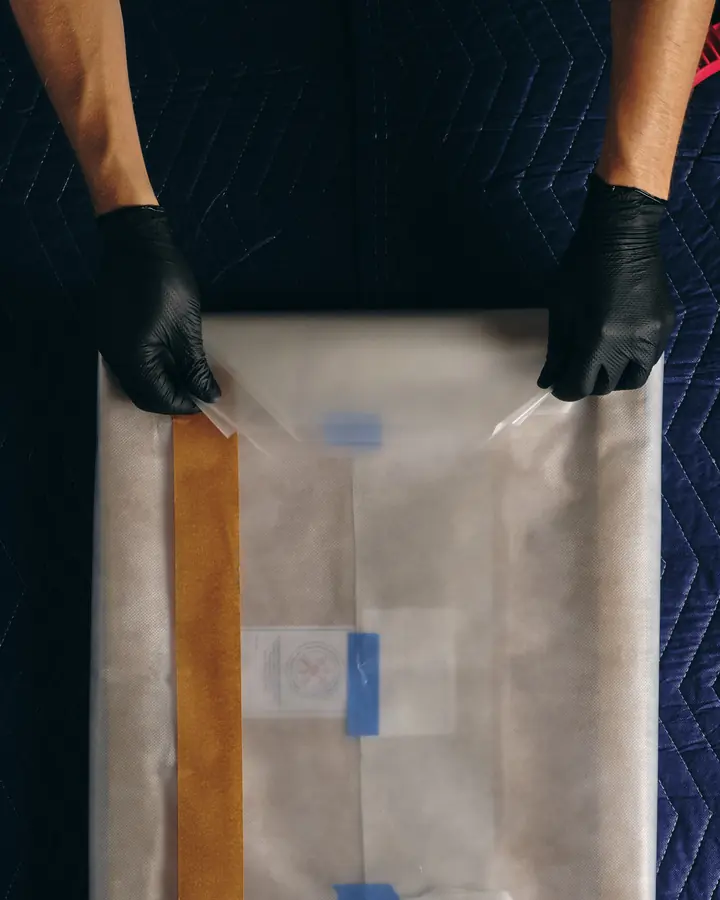
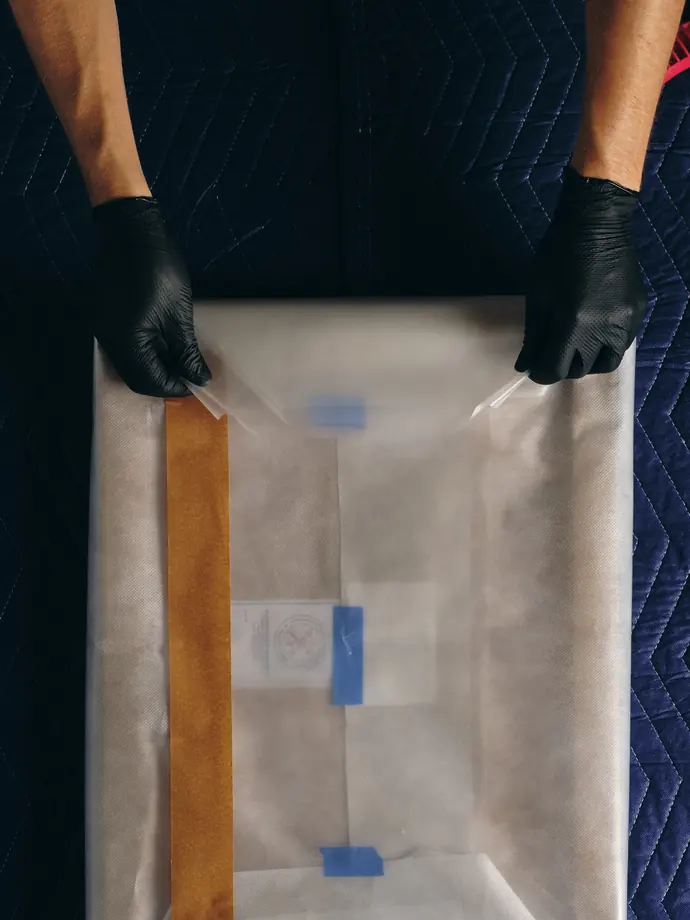
Eight journey cards at 3:4, no standfirst
- Photography joins the sequence as 02, straight after the work is received,
  which is where a work is documented before anything is packed.
- The frames move from 4:5 to 3:4 and the standfirst card is gone, so the row
  is eight cards: 01 to 04 along the top, 05 to 08 back along the bottom.
- The top line now runs the whole row, there being no text cell to avoid.

diff --git a/index.html b/index.html
@@ -128,81 +128,86 @@
   <section class="journey" id="journey" data-ground="mid" aria-label="One work, end to end">
     <div class="journey__track">
       <div class="journey__grid" data-journey-strip>
-
-        <div class="journey__intro">
-          <p>Most of what we do is never seen.</p>
-        </div>
-
         <ol class="journey__stages">
-        <li class="journey__stage">
-          <figure>
-            <div class="journey__plate">
-            <img src="assets/img/journey/received.webp" width="720" height="900"
-                 loading="lazy" decoding="async" alt="A framed work laid face-down on a padded table with its paperwork beside it.">
-            <span class="journey__n" aria-hidden="true">01</span>
-            <figcaption>Received</figcaption>
-            </div>
-          </figure>
+          <li class="journey__stage">
+            <figure>
+              <div class="journey__plate">
+                <img src="assets/img/journey/received.webp" width="690" height="920"
+                     loading="lazy" decoding="async" alt="A framed work laid face-down on a padded table with its paperwork beside it.">
+                <span class="journey__n" aria-hidden="true">01</span>
+                <figcaption>Received</figcaption>
+              </div>
+            </figure>
           </li>
-        <li class="journey__stage">
-          <figure>
-            <div class="journey__plate">
-            <img src="assets/img/journey/wrapped.webp" width="720" height="900"
-                 loading="lazy" decoding="async" alt="Gloved hands taping a wrapped work closed.">
-            <span class="journey__n" aria-hidden="true">02</span>
-            <figcaption>Wrapped</figcaption>
-            </div>
-          </figure>
+          <li class="journey__stage">
+            <figure>
+              <div class="journey__plate">
+                <img src="assets/img/journey/photographed.webp" width="690" height="920"
+                     loading="lazy" decoding="async" alt="A technician photographing a framed work on a tripod-mounted camera.">
+                <span class="journey__n" aria-hidden="true">02</span>
+                <figcaption>Photographed</figcaption>
+              </div>
+            </figure>
           </li>
-        <li class="journey__stage">
-          <figure>
-            <div class="journey__plate">
-            <img src="assets/img/journey/boarded.webp" width="720" height="900"
-                 loading="lazy" decoding="async" alt="The wrapped work set into a foam-cornered board.">
-            <span class="journey__n" aria-hidden="true">03</span>
-            <figcaption>Boarded</figcaption>
-            </div>
-          </figure>
+          <li class="journey__stage">
+            <figure>
+              <div class="journey__plate">
+                <img src="assets/img/journey/wrapped.webp" width="690" height="920"
+                     loading="lazy" decoding="async" alt="Gloved hands taping a wrapped work closed.">
+                <span class="journey__n" aria-hidden="true">03</span>
+                <figcaption>Wrapped</figcaption>
+              </div>
+            </figure>
           </li>
-        <li class="journey__stage">
-          <figure>
-            <div class="journey__plate">
-            <img src="assets/img/journey/crated.webp" width="720" height="900"
-                 loading="lazy" decoding="async" alt="A finished timber crate, marked and labelled.">
-            <span class="journey__n" aria-hidden="true">04</span>
-            <figcaption>Crated</figcaption>
-            </div>
-          </figure>
+          <li class="journey__stage">
+            <figure>
+              <div class="journey__plate">
+                <img src="assets/img/journey/boarded.webp" width="690" height="920"
+                     loading="lazy" decoding="async" alt="The wrapped work set into a foam-cornered board.">
+                <span class="journey__n" aria-hidden="true">04</span>
+                <figcaption>Boarded</figcaption>
+              </div>
+            </figure>
           </li>
-        <li class="journey__stage">
-          <figure>
-            <div class="journey__plate">
-            <img src="assets/img/journey/stored.webp" width="720" height="900"
-                 loading="lazy" decoding="async" alt="Crates and works held on racking inside the facility.">
-            <span class="journey__n" aria-hidden="true">05</span>
-            <figcaption>Stored</figcaption>
-            </div>
-          </figure>
+          <li class="journey__stage">
+            <figure>
+              <div class="journey__plate">
+                <img src="assets/img/journey/crated.webp" width="690" height="920"
+                     loading="lazy" decoding="async" alt="A finished timber crate, marked and labelled.">
+                <span class="journey__n" aria-hidden="true">05</span>
+                <figcaption>Crated</figcaption>
+              </div>
+            </figure>
           </li>
-        <li class="journey__stage">
-          <figure>
-            <div class="journey__plate">
-            <img src="assets/img/journey/transit.webp" width="720" height="900"
-                 loading="lazy" decoding="async" alt="The padded interior of a fitted Storehouse vehicle.">
-            <span class="journey__n" aria-hidden="true">06</span>
-            <figcaption>In transit</figcaption>
-            </div>
-          </figure>
+          <li class="journey__stage">
+            <figure>
+              <div class="journey__plate">
+                <img src="assets/img/journey/stored.webp" width="690" height="920"
+                     loading="lazy" decoding="async" alt="Crates and works held on racking inside the facility.">
+                <span class="journey__n" aria-hidden="true">06</span>
+                <figcaption>Stored</figcaption>
+              </div>
+            </figure>
           </li>
-        <li class="journey__stage">
-          <figure>
-            <div class="journey__plate">
-            <img src="assets/img/journey/installed.webp" width="720" height="900"
-                 loading="lazy" decoding="async" alt="A large framed painting hung on the wall of a private interior.">
-            <span class="journey__n" aria-hidden="true">07</span>
-            <figcaption>Installed</figcaption>
-            </div>
-          </figure>
+          <li class="journey__stage">
+            <figure>
+              <div class="journey__plate">
+                <img src="assets/img/journey/transit.webp" width="690" height="920"
+                     loading="lazy" decoding="async" alt="The padded interior of a fitted Storehouse vehicle.">
+                <span class="journey__n" aria-hidden="true">07</span>
+                <figcaption>In transit</figcaption>
+              </div>
+            </figure>
+          </li>
+          <li class="journey__stage">
+            <figure>
+              <div class="journey__plate">
+                <img src="assets/img/journey/installed.webp" width="690" height="920"
+                     loading="lazy" decoding="async" alt="A large framed painting hung on the wall of a private interior.">
+                <span class="journey__n" aria-hidden="true">08</span>
+                <figcaption>Installed</figcaption>
+              </div>
+            </figure>
           </li>
         </ol>
 

diff --git a/assets/css/site.css b/assets/css/site.css
@@ -491,16 +491,6 @@ html[data-cursor="on"] .hero-field { cursor: none; }
   padding-block: clamp(2rem, 3.5vw, 3.25rem);
 }
 
-/* The standfirst takes the first cell of the grid, where an eighth card would
-   otherwise sit, so there is no band of empty ground above the row. */
-.journey__intro { display: flex; align-items: center; }
-.journey__intro p {
-  margin: 0;
-  color: color-mix(in srgb, var(--canvas) 82%, transparent);
-  font-size: var(--t-body);
-  max-width: 22em;
-}
-
 /* The row runs the full width of the window, not the text measure. */
 .journey__track {
   --turn-w: clamp(0.9rem, 1.5vw, 1.5rem);
@@ -522,21 +512,21 @@ html[data-cursor="on"] .hero-field { cursor: none; }
 .journey__stages { display: contents; }
 .journey__stage { position: relative; }
 
-.journey__intro           { grid-area: 1 / 1; }
-.journey__stage:nth-child(1) { grid-area: 1 / 2; }
-.journey__stage:nth-child(2) { grid-area: 1 / 3; }
-.journey__stage:nth-child(3) { grid-area: 1 / 4; }
-.journey__stage:nth-child(4) { grid-area: 2 / 4; }
-.journey__stage:nth-child(5) { grid-area: 2 / 3; }
-.journey__stage:nth-child(6) { grid-area: 2 / 2; }
-.journey__stage:nth-child(7) { grid-area: 2 / 1; }
+.journey__stage:nth-child(1) { grid-area: 1 / 1; }
+.journey__stage:nth-child(2) { grid-area: 1 / 2; }
+.journey__stage:nth-child(3) { grid-area: 1 / 3; }
+.journey__stage:nth-child(4) { grid-area: 1 / 4; }
+.journey__stage:nth-child(5) { grid-area: 2 / 4; }
+.journey__stage:nth-child(6) { grid-area: 2 / 3; }
+.journey__stage:nth-child(7) { grid-area: 2 / 2; }
+.journey__stage:nth-child(8) { grid-area: 2 / 1; }
 
 /* One line, along the top row, down the right-hand side, back along the bottom. */
 .journey__line {
   background: color-mix(in srgb, var(--canvas) 72%, transparent);
   pointer-events: none;
 }
-.journey__line--top    { grid-area: 1 / 2 / 2 / 5; align-self: center; height: 1px; }
+.journey__line--top    { grid-area: 1 / 1 / 2 / 5; align-self: center; height: 1px; }
 .journey__line--bottom { grid-area: 2 / 1 / 3 / 5; align-self: center; height: 1px; }
 .journey__line--turn {
   grid-area: 1 / 4 / 3 / 5;
@@ -555,7 +545,7 @@ html[data-cursor="on"] .hero-field { cursor: none; }
 
 .journey__plate {
   position: relative;
-  aspect-ratio: 4 / 5;
+  aspect-ratio: 3 / 4;
   background: rgba(0, 0, 0, 0.25);
   overflow: hidden;
 }
@@ -613,12 +603,13 @@ html[data-cursor="on"] .hero-field { cursor: none; }
     animation: settle 0.7s cubic-bezier(0.22, 1, 0.36, 1) backwards;
   }
   .js .journey__strip:not([data-shown="true"]) .journey__stage { opacity: 0; }
-  .journey__stage:nth-child(2) { animation-delay: 0.00s; }
-  .journey__stage:nth-child(3) { animation-delay: 0.07s; }
-  .journey__stage:nth-child(4) { animation-delay: 0.14s; }
-  .journey__stage:nth-child(5) { animation-delay: 0.21s; }
-  .journey__stage:nth-child(6) { animation-delay: 0.28s; }
-  .journey__stage:nth-child(7) { animation-delay: 0.35s; }
+  .journey__stage:nth-child(1) { animation-delay: 0.00s; }
+  .journey__stage:nth-child(2) { animation-delay: 0.06s; }
+  .journey__stage:nth-child(3) { animation-delay: 0.12s; }
+  .journey__stage:nth-child(4) { animation-delay: 0.18s; }
+  .journey__stage:nth-child(5) { animation-delay: 0.24s; }
+  .journey__stage:nth-child(6) { animation-delay: 0.30s; }
+  .journey__stage:nth-child(7) { animation-delay: 0.36s; }
   .journey__stage:nth-child(8) { animation-delay: 0.42s; }
   @keyframes settle {
     from { opacity: 0; transform: translateY(0.7rem); }
@@ -630,7 +621,6 @@ html[data-cursor="on"] .hero-field { cursor: none; }
 
 @media (max-width: 56rem) {
   .journey__track { padding-inline: 0; }
-  .journey__intro { display: block; padding-inline: var(--gutter); margin-bottom: 1.5rem; }
   .journey__line { display: none; }
   .journey__grid { display: block; }
   .journey__stages {

diff --git a/README.md b/README.md
@@ -129,20 +129,19 @@ on each link and drawn by CSS.
 
 ## The Journey
 
-One work travelling the whole service: received, wrapped, boarded, crated,
-stored, moved, installed. Seven real frames from the Storehouse shoot, in the
-order they happened.
+One work travelling the whole service: received, photographed, wrapped,
+boarded, crated, stored, moved, installed. Eight real frames from the
+Storehouse shoot, in the order they happen.
 
-Four to a row, the full width of the window. The standfirst takes the first
-cell, where an eighth card would otherwise sit, so there is no band of empty
-ground above the pictures. Stages 01 to 03 run along the top; 04 to 07 run back
-the other way along the bottom, and one line carries the eye through the whole
-thing: along the top row, out of 03 into the right-hand gutter, down, and back
-in to 04. That turn is a three-sided border on `.journey__line--turn`, sitting
-in space reserved by the track's right padding.
+Four to a row, the full width of the window. Stages 01 to 04 run along the top;
+05 to 08 run back the other way along the bottom, and one line carries the eye
+through the whole thing: along the top row, out of 04 into the right-hand
+gutter, down, and back in to 05. That turn is a three-sided border on
+`.journey__line--turn`, sitting in space reserved by the track's right padding.
 
-Each frame is a card at 4:5 with its number top-left and its label bottom-left,
-both held against the picture by a gradient scrim.
+Each frame is a card at 3:4 with its number top-left and its label
+bottom-left, both held against the picture by a gradient scrim. There is no
+heading or standfirst: the sequence speaks for itself.
 
 On a phone the row becomes a single swipeable strip and the lines are dropped.
 
@@ -150,9 +149,9 @@ The ground is `--ground-mid`. The masthead borrows the same value for its
 backdrop over this section rather than going transparent, because the pictures
 pass underneath it and dark type on a photograph is not readable.
 
-To change a stage, edit `index.html` and drop a replacement 4:5 image into
+To change a stage, edit `index.html` and drop a replacement 3:4 image into
 `assets/img/journey/`. If you add or remove one, the `grid-area` rules in
-`site.css` place the seven stages explicitly and will need adjusting.
+`site.css` place the eight stages explicitly and will need adjusting.
 
 ## Alternating entries
 
